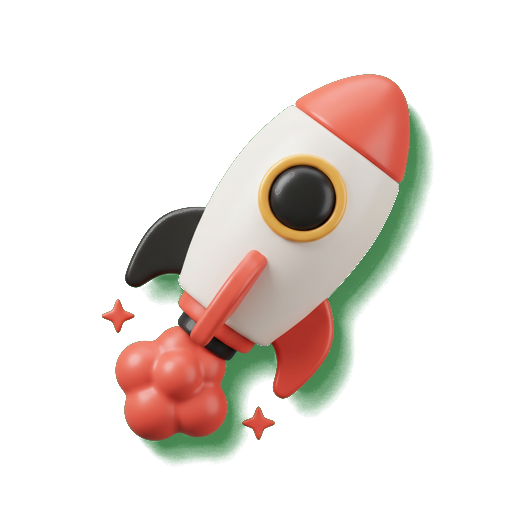
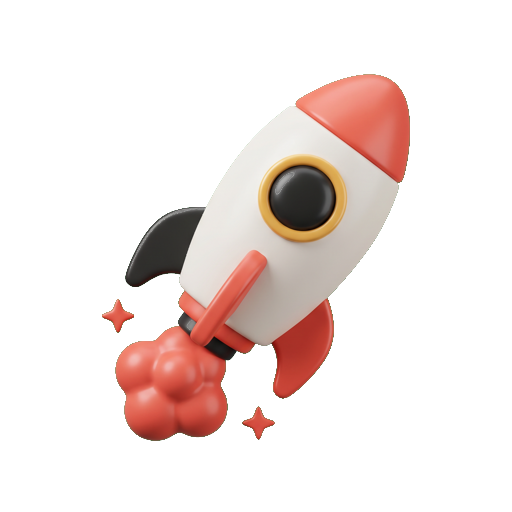
fix(ui+gov): universal operator binding, navbar/footer/hero polish, 3D despill, S-pillar dedup
Batch de correctifs (revue site UPgraders / La Fusée / Cockpit) :

GOUVERNANCE (corrige « Cannot emit intent without operator binding ») :
- Colle universelle d'opérateur dans governed-procedure.ts : un utilisateur
  authentifié sans compte Operator (founder qui crée sa marque, freelance/marque
  qui s'inscrit ou dépose sur La Guilde) est rattaché à "USER:<id>" (self-binding) ;
  un public anonyme sur un kind Guilde (ADR-0098) à "GUILD_PUBLIC". L'audit
  IntentEmission + hash-chain reste intact ; la modération GUILD_PUBLISH_MISSION
  reste operator-only. Débloque /cockpit/new ET l'onboarding Guilde (même symptôme).

UI :
- site-nav : logo affiché 2× (le CSS .up-logo__img display:block écrasait
  hidden/sm:hidden) → wrappers responsive ; top-nav allégé (« Contact » retiré,
  déjà couvert par le CTA « Démarrer un projet »).
- marketing-nav (La Fusée) : ajout d'un lien retour « ← UPgraders ».
- marketing-footer : logo La Fusée recadré (items-start, ne flotte plus au milieu).
- homepage hero : badge stat « 30+ » déplacé en bas-droite (collision avec la
  figcaption Direction créative en bas-gauche).
- pillar-page S : garde-fou de déduplication des roadmapRoutes (12 cartes
  d'ambition dupliquées → 3).
- 3D : rocket-3d + trophy-3d re-keyés (green despill) — halo vert résiduel retiré.

tsc 0 · eslint clean · governance 855/855.

Changed region(s): [[0.5625, 0.1875, 0.8438, 0.8125], [0.2812, 0.6562, 0.5625, 0.9062], [0.2812, 0.5312, 0.375, 0.5938]]

diff --git a/src/server/governance/governed-procedure.ts b/src/server/governance/governed-procedure.ts
@@ -472,13 +472,42 @@ export function auditedProcedure<P extends typeof protectedProcedure>(
 
 // ── Internal: write IntentEmission rows ───────────────────────────────
 
+/**
+ * Intent kinds émis par le PUBLIC (portail La Guilde, ADR-0098) — utilisateurs
+ * sans compte Operator. Ils sont rattachés à l'opérateur universel "GUILD_PUBLIC"
+ * au lieu d'être refusés. NB : GUILD_PUBLISH_MISSION (modération) en est EXCLU —
+ * c'est une décision opérateur, elle exige un vrai operator binding.
+ */
+const PUBLIC_INTENT_KINDS = new Set<string>([
+  "APPLY_TO_MISSION",
+  "GUILD_POST_MISSION",
+  "GUILD_REGISTER_TALENT",
+  "GUILD_REGISTER_ORGANIZATION",
+  "GUILD_DRAFT_MISSION_FROM_TEXT",
+]);
+
 async function preEmitIntent(
   ctx: Context,
   kind: string,
   payload: unknown,
   caller: string,
 ): Promise<string> {
-  const operatorId = await resolveOperatorId(ctx).catch(() => null);
+  // ── Colle universelle d'opérateur (ADR-0098 + persona founder) ──────────
+  // Tous les utilisateurs ne sont pas des Operators (staff UPgraders) : un
+  // founder qui crée sa marque dans le Cockpit, un freelance qui s'inscrit à La
+  // Guilde, une marque qui dépose une mission sont des utilisateurs AUTHENTIFIÉS
+  // sans compte Operator. Refuser leur Intent (« Cannot emit intent without
+  // operator binding ») cassait la création de marque ET l'onboarding Guilde.
+  // Cascade de rattachement (l'audit IntentEmission + hash-chain reste intact ;
+  // les role-gates operatorProcedure/adminProcedure protègent toujours les
+  // Intents sensibles en amont) :
+  //   1. Operator résolu (staff / ADMIN)            → son id
+  //   2. sinon utilisateur authentifié              → "USER:<id>" (self-binding)
+  //   3. sinon kind public anonyme (Guilde ADR-0098) → "GUILD_PUBLIC" (universel)
+  const operatorId =
+    (await resolveOperatorId(ctx).catch(() => null)) ??
+    (ctx.session?.user?.id ? `USER:${ctx.session.user.id}` : null) ??
+    (PUBLIC_INTENT_KINDS.has(kind) ? "GUILD_PUBLIC" : null);
   if (!operatorId && kind !== "LEGACY_MUTATION") {
     throw new TRPCError({
       code: "FORBIDDEN",

diff --git a/src/components/cockpit/pillar-page.tsx b/src/components/cockpit/pillar-page.tsx
@@ -509,6 +509,18 @@ export function PillarPage({ pageKey }: PillarPageProps) {
             selectedRouteKey: selectedKey as "CONSERVATIVE" | "TARGET" | "AMBITIOUS",
           });
         }
+        // Garde-fou : un S stocké peut contenir des roadmapRoutes dupliquées
+        // (régression de génération en amont) → 12 cartes au lieu de 3. On
+        // déduplique par `key` (CONSERVATIVE/TARGET/AMBITIOUS), 1ʳᵉ occurrence.
+        {
+          const seenRoute = new Set<string>();
+          routes = routes.filter((r) => {
+            const k = String(r.key ?? "");
+            if (seenRoute.has(k)) return false;
+            seenRoute.add(k);
+            return true;
+          });
+        }
         return (
           <div className="rounded-lg border border-white/5 bg-surface-raised p-4">
             <div className="mb-3">

diff --git a/src/components/upgraders/site-nav.tsx b/src/components/upgraders/site-nav.tsx
@@ -11,8 +11,15 @@ import { NAV_ITEMS } from "./data";
 function Wordmark() {
   return (
     <Link href="/" className="flex items-center" aria-label="UPgraders — accueil">
-      <Logo variant="lockup-horizontal" size={30} alt="UPgraders" className="hidden sm:block" />
-      <Logo variant="mark" size={30} alt="UPgraders" className="sm:hidden" />
+      {/* Responsive show/hide on the WRAPPER, not the <img> : `.up-logo__img`
+          forces display:block (upgraders.css) et écraserait `hidden`/`sm:hidden`
+          appliqués directement sur l'image → les deux logos s'afficheraient. */}
+      <span className="hidden sm:block">
+        <Logo variant="lockup-horizontal" size={30} alt="UPgraders" />
+      </span>
+      <span className="sm:hidden">
+        <Logo variant="mark" size={30} alt="UPgraders" />
+      </span>
     </Link>
   );
 }

diff --git a/src/components/landing/marketing-nav.tsx b/src/components/landing/marketing-nav.tsx
@@ -85,6 +85,14 @@ export function MarketingNav() {
         </div>
 
         <div className="flex items-center gap-4">
+          {/* Retour vers le site UPgraders (La Fusée = produit d'UPgraders) */}
+          <Link
+            href="/"
+            className="hidden md:inline-flex items-center gap-1.5 font-mono text-2xs uppercase tracking-widest text-foreground-muted transition-colors hover:text-accent"
+          >
+            <svg className="h-3 w-3" viewBox="0 0 24 24" fill="none" stroke="currentColor" strokeWidth="2"><path d="M19 12H5M11 5l-7 7 7 7" /></svg>
+            UPgraders
+          </Link>
           <LocaleToggle variant="compact" />
           <NavSessionLink />
           <a

diff --git a/src/app/(marketing)/page.tsx b/src/app/(marketing)/page.tsx
@@ -119,8 +119,10 @@ function Hero() {
               <figcaption className="up-figure__cap"><span>Direction créative</span><span className="em">DOUALA · ABIDJAN</span></figcaption>
             </figure>
 
-            {/* real brand stats, not live metrics — editorial proof */}
-            <div className="absolute -bottom-5 -left-5 hidden items-center gap-3 border border-border bg-surface-card px-4 py-3 shadow-lg sm:flex" style={{ borderRadius: "var(--radius-lg)" }}>
+            {/* real brand stats, not live metrics — editorial proof.
+                Badge en bas-DROITE : le bas-gauche est occupé par la figcaption
+                `up-figure__cap` (Direction créative · Douala) → collision sinon. */}
+            <div className="absolute -bottom-5 -right-5 hidden items-center gap-3 border border-border bg-surface-card px-4 py-3 shadow-lg sm:flex" style={{ borderRadius: "var(--radius-lg)" }}>
               <span className="font-display text-2xl font-semibold text-accent">{STATS[2]?.value}</span>
               <span className="max-w-[12ch] font-mono text-2xs uppercase leading-tight tracking-widest text-foreground-muted">{STATS[2]?.label}</span>
             </div>

diff --git a/src/components/landing/marketing-footer.tsx b/src/components/landing/marketing-footer.tsx
@@ -55,9 +55,9 @@ export function MarketingFooter() {
   return (
     <footer className="border-t border-border pt-12 pb-6">
       <div className="mx-auto max-w-[var(--maxw-content)] px-[var(--pad-page)] grid grid-cols-1 md:grid-cols-[1fr_1.4fr] gap-12 pb-10 border-b border-border">
-        <div className="flex gap-3.5 items-center">
+        <div className="flex gap-3.5 items-start">
           {/* eslint-disable-next-line @next/next/no-img-element */}
-          <img src="/brand/logos/lafusee-logo.png" alt="" aria-hidden="true" className="h-8 w-auto" />
+          <img src="/brand/logos/lafusee-logo.png" alt="" aria-hidden="true" className="h-8 w-auto shrink-0" />
           <div>
             <div className="font-semibold tracking-tight text-lg">La Fusée<span className="text-accent">.</span></div>
             <div className="font-mono text-2xs text-foreground-muted">Industry OS — marché créatif africain.</div>

diff --git a/src/components/upgraders/data.ts b/src/components/upgraders/data.ts
@@ -75,7 +75,8 @@ export const NAV_ITEMS: NavItem[] = [
   { label: "La Guilde", href: "/la-guilde" },
   { label: "Réalisations", href: "/realisations" },
   { label: "Blog", href: "/blog" },
-  { label: "Contact", href: "/contact" },
+  // « Contact » retiré du top-nav : redondant avec le CTA « Démarrer un projet »
+  // (→ /contact). Allège la barre (le footer garde le lien Contact).
 ];
 
 /* ─────────────────────────────────────────────────────────────────────────